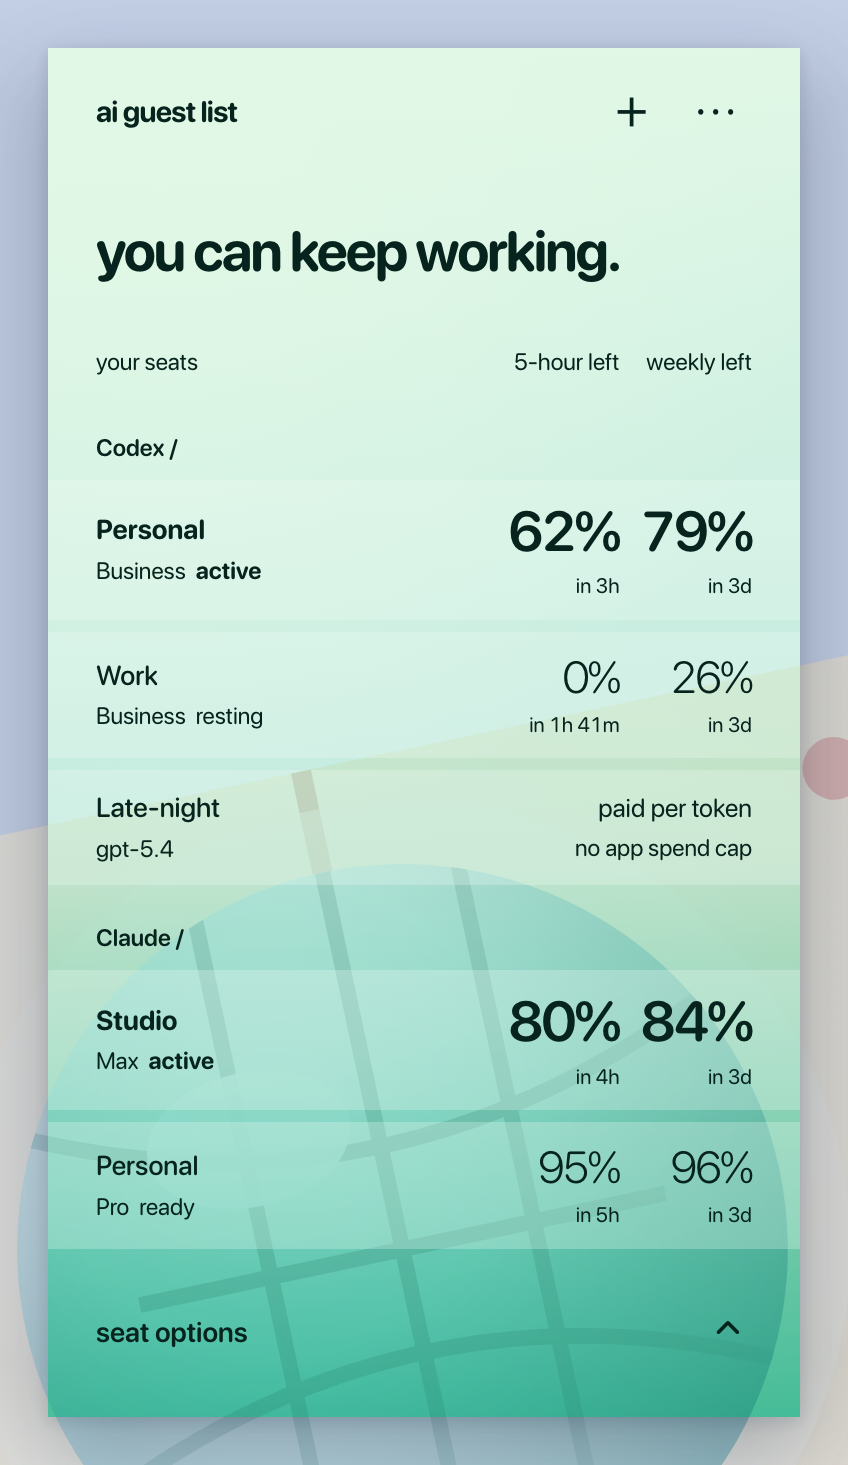
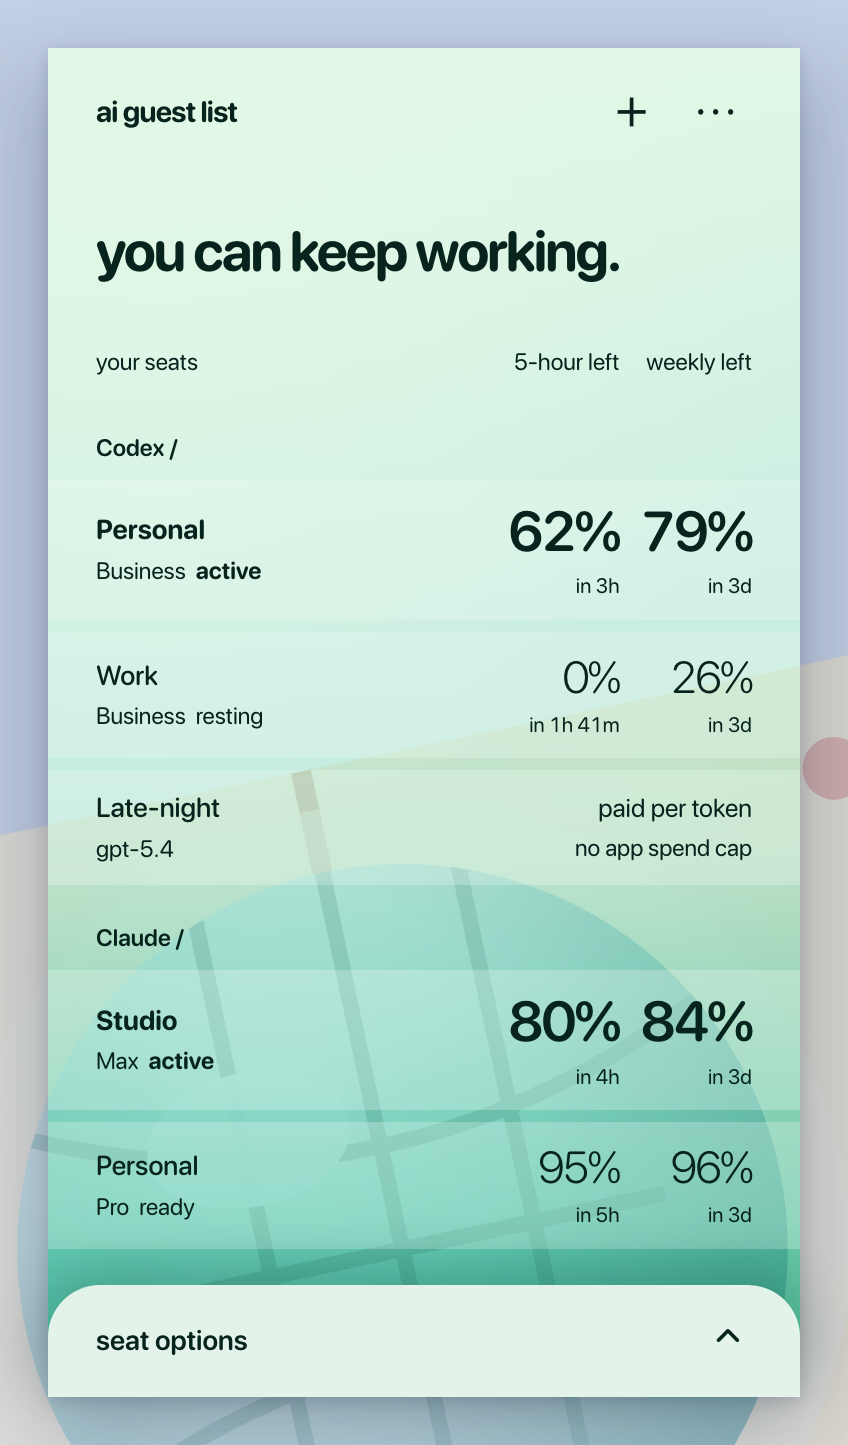
Make the collapsed sheet look like a sheet
The roster appeared to scroll under nothing. Measured: the roster ends at 534
and the handle starts at 534 — no overlap at all — but the closed handle had
no background, so "seat options" was bare text floating on the field with 51px
of roster hidden behind an invisible edge.

Closed is now the same sheet as open, collapsed to its handle: the sheet's own
surface, its rounded top corners, and a soft lift. Content passing behind it
reads as deliberate, because there is visibly something to pass behind. It
also reaches both edges now, as an anchored sheet should, instead of floating
inset above the bottom.

diff --git a/app/web/styles.css b/app/web/styles.css
@@ -142,8 +142,15 @@ summary::-webkit-details-marker { display:none; }
 .mood-resting .hero-followup { margin-top:14px; }
 
 /* One quiet way down. On demand, a solid sheet covers the reading; the header stays pinned. */
-.guest-drawer { --handle-height:60px; flex:none; margin:0 20px 18px; z-index:4; }
-.drawer-handle { min-height:48px; padding:10px 4px; display:flex; align-items:center; gap:10px; font-weight:600; }
+/* Closed, this is the same sheet as when it is open — just collapsed to its handle. It carries
+   the sheet's own surface, corners and lift so the roster visibly scrolls BEHIND a bar, instead
+   of disappearing under bare text floating on the field. */
+.guest-drawer {
+  --handle-height:60px; flex:none; margin:0; z-index:4;
+  background:var(--sheet); border-radius:26px 26px 0 0;
+  box-shadow:0 -10px 24px var(--shadow);
+}
+.drawer-handle { min-height:56px; padding:10px 24px; display:flex; align-items:center; gap:10px; font-weight:600; }
 .drawer-count { margin-left:auto; font-weight:400; font-size:.9rem; }
 .chevron { display:inline-flex; align-items:center; justify-content:center; width:24px; height:24px; flex:none; font-size:1.15rem; }
 .guest-drawer[open] {
